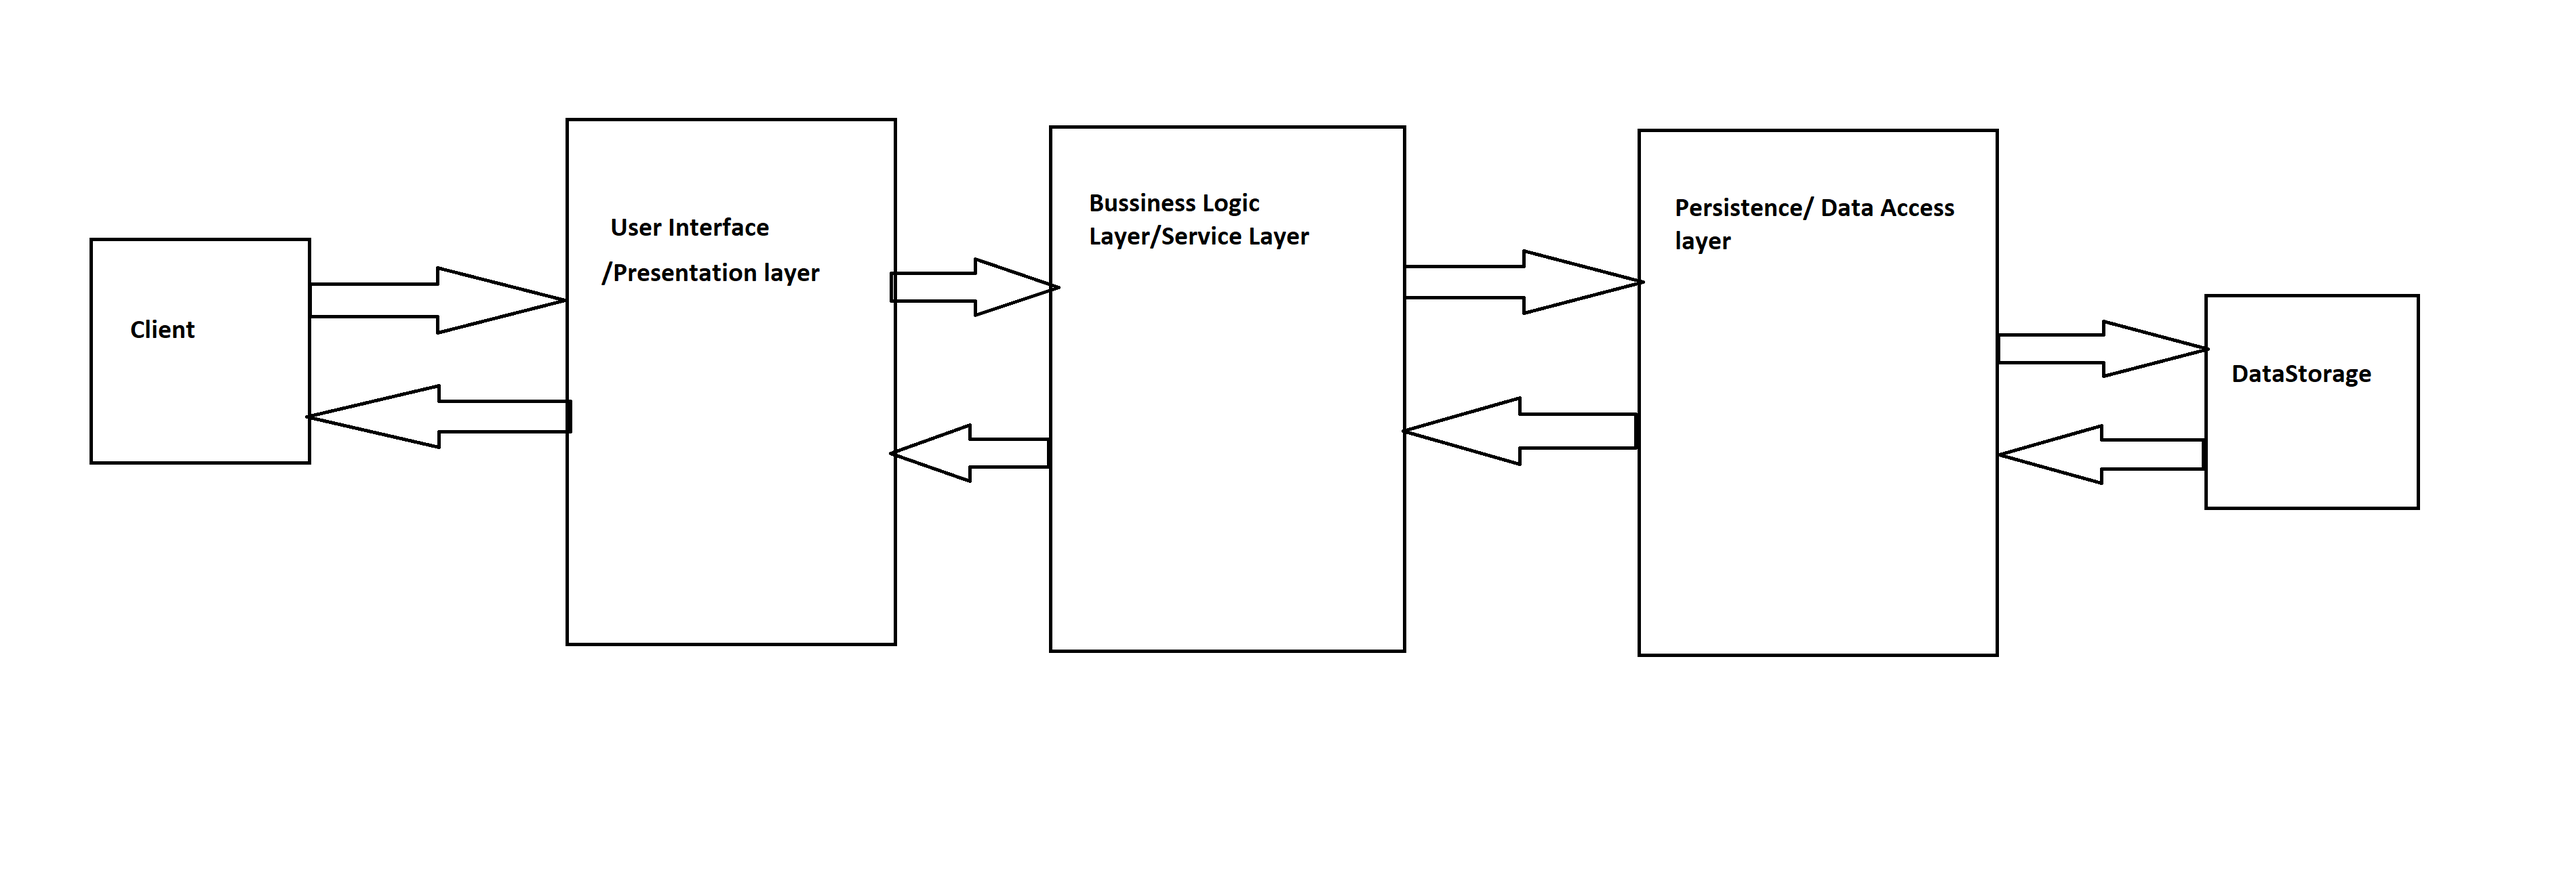
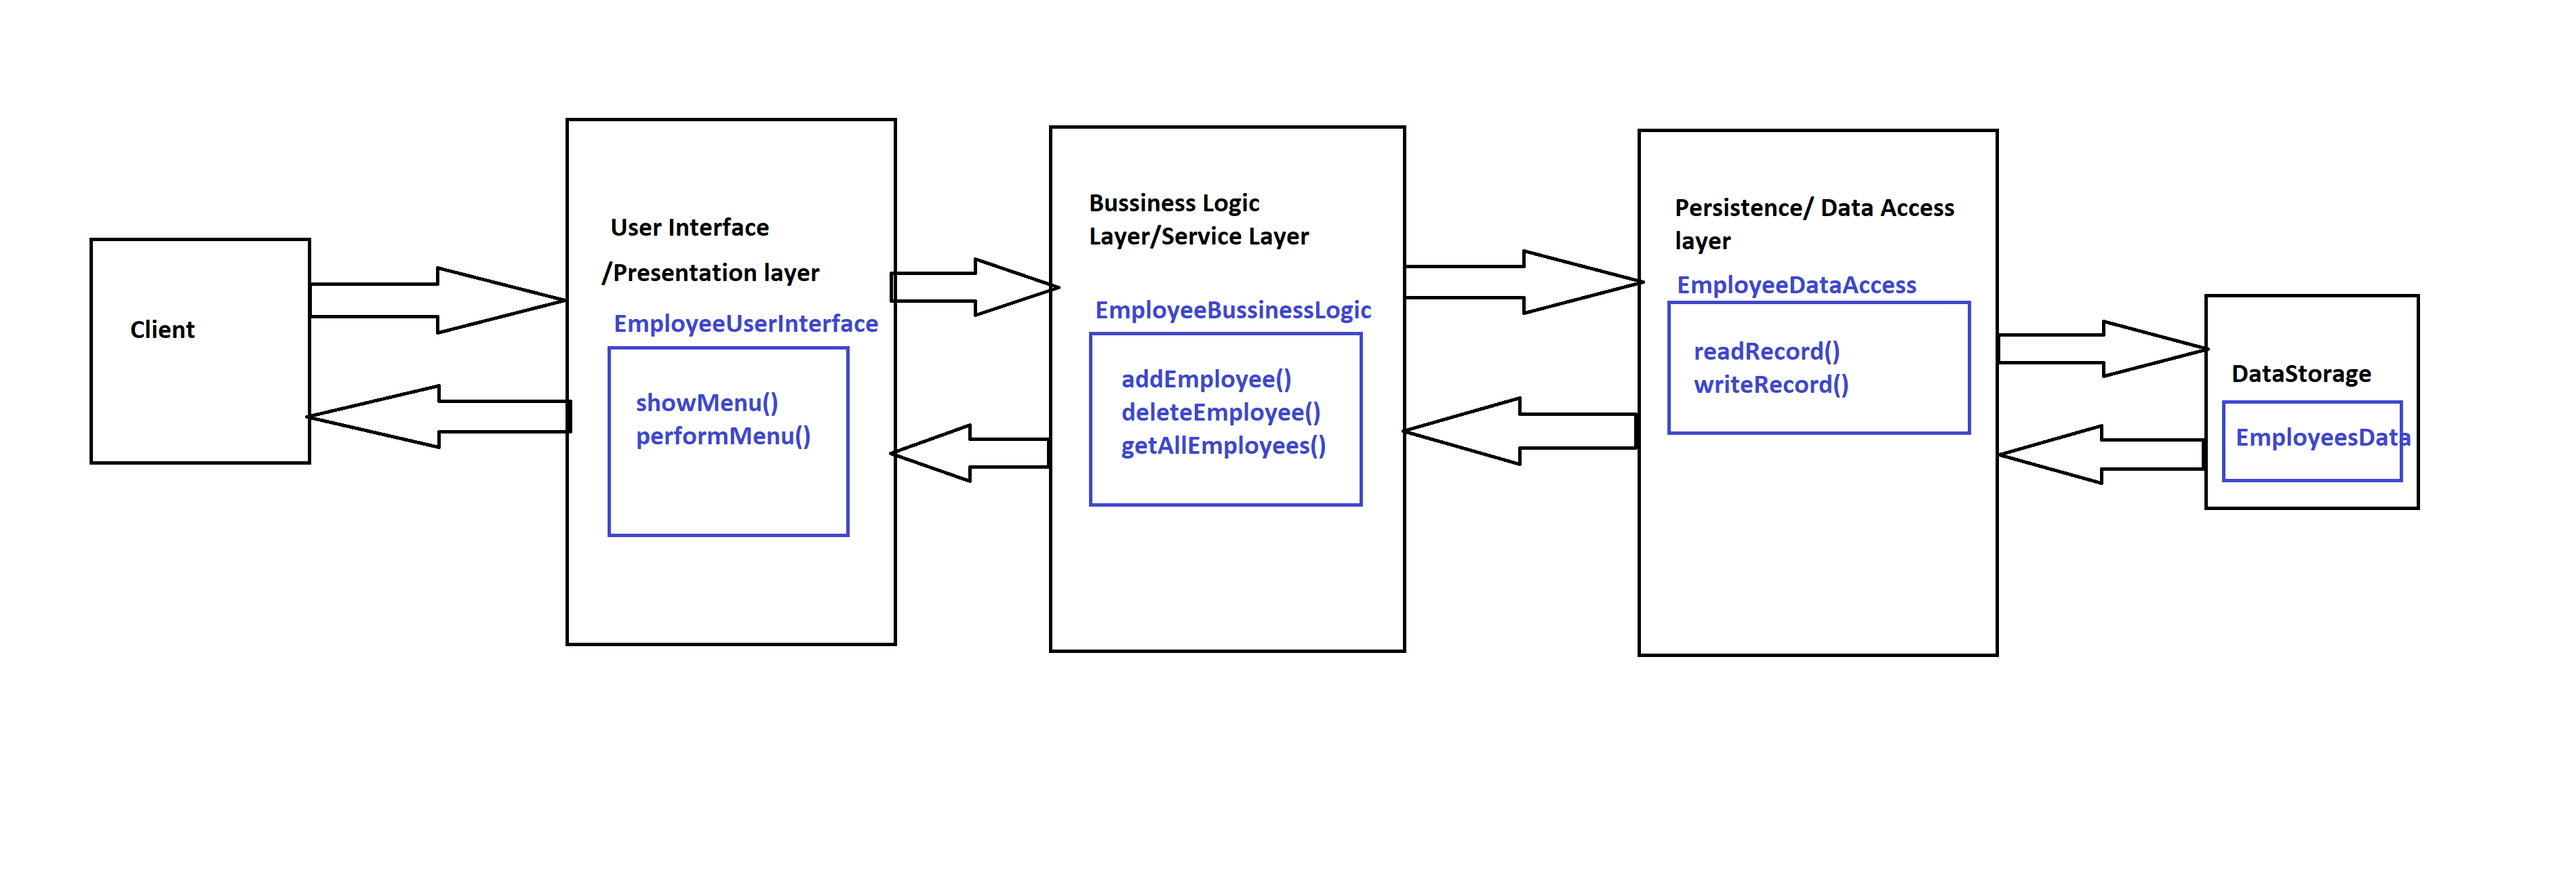
Add files via upload

diff --git a/Day13/EmployeeLayeredDemoProject/src/com/sujata/employee/presentation/EmployeeUserInterfaceImpl.java b/Day13/EmployeeLayeredDemoProject/src/com/sujata/employee/presentation/EmployeeUserInterfaceImpl.java
@@ -1,7 +1,16 @@
 package com.sujata.employee.presentation;
 
+import java.util.LinkedList;
+import java.util.Scanner;
+
+import com.sujata.employee.dto.Employee;
+import com.sujata.employee.service.EmployeeBussinessLogic;
+import com.sujata.employee.service.EmployeeBussinessLogicImpl;
+
 public class EmployeeUserInterfaceImpl implements EmployeeUserInterface {
 
+	private EmployeeBussinessLogic bussinessLogic=new EmployeeBussinessLogicImpl();
+	
 	@Override
 	public void showMenu() {
 		System.out.println("1. List All Employees");
@@ -13,17 +22,39 @@ public class EmployeeUserInterfaceImpl implements EmployeeUserInterface {
 
 	@Override
 	public void performMenu(int choice) {
+		Scanner scanner=new Scanner(System.in);
 		switch (choice) {
 		case 1: 
-			System.out.println("This module is under development");
+			LinkedList<Employee> employees=bussinessLogic.getAllEmployees();
+			for(Employee employee:employees) {
+				System.out.println(employee);
+			}
 			break;
 		case 2:
-			System.out.println("This Module is under development");
+			Employee employee=new Employee();
+			System.out.println("Enter Employee ID : ");
+			employee.setEmpId(scanner.nextInt());
+			System.out.println("Enter Employee Name : ");
+			employee.setEmpName(scanner.next());
+			System.out.println("Enter Employee Designation : ");
+			employee.setEmpDesignation(scanner.next());
+			System.out.println("Enter Employee Department : ");
+			employee.setEmpDepartment(scanner.next());
+			System.out.println("Enter Employee Salary : ");
+			employee.setEmpSalary(scanner.nextDouble());
+			
+			boolean status=bussinessLogic.addEmployee(employee);
+			
+			if(status)
+				System.out.println("Employee Added!");
+			else
+				System.out.println("Employee Not Added!");
 			break;
 		case 3:
 			System.out.println("This Module is under development");
 			break;
 		case 4:
+			bussinessLogic.saveAllEmployees();
 			System.out.println("Thanks for Using Employee Management System");
 			System.exit(0);
 			

diff --git a/Day13/EmployeeLayeredDemoProject/src/com/sujata/employee/persistence/EmployeeDataAccessImpl.java b/Day13/EmployeeLayeredDemoProject/src/com/sujata/employee/persistence/EmployeeDataAccessImpl.java
@@ -1,0 +1,63 @@
+package com.sujata.employee.persistence;
+
+import java.io.BufferedReader;
+import java.io.FileReader;
+import java.io.FileWriter;
+import java.io.PrintWriter;
+import java.util.ArrayList;
+import java.util.LinkedList;
+import java.util.Scanner;
+
+import com.sujata.employee.dto.Employee;
+
+public class EmployeeDataAccessImpl implements EmployeeDataAccess {
+
+	@Override
+	public boolean writeRecords(LinkedList<Employee> employees)throws Exception {
+		FileWriter fileWriter=new FileWriter("EmployeesData");
+		PrintWriter printWriter=new PrintWriter(fileWriter);
+		
+		for(Employee employee:employees) {
+			String empStr=employee.getEmpId()+","+employee.getEmpName()+","+employee.getEmpDesignation()+","+employee.getEmpDepartment()+","+employee.getEmpSalary();
+			
+			printWriter.println(empStr);
+		}
+		
+		printWriter.flush();
+		
+		printWriter.close();
+
+		fileWriter.close();
+		return true;
+	}
+
+	@Override
+	public LinkedList<Employee> readRecords()throws Exception {
+		LinkedList<Employee> employees=new LinkedList<Employee>();
+		
+		FileReader fileReader = new FileReader("EmployeesData");
+
+		// read the content from buffer
+		BufferedReader bufferedReader = new BufferedReader(fileReader);
+
+		Scanner scanner = new Scanner(bufferedReader);
+		while (scanner.hasNext()) {
+			String currentLine = scanner.nextLine();
+			/*
+			 * currentLine=1,AAAA,Executive,Sales,25000.0
+			 * values[]={"1","AAAA","Executive","Sales","25000.0"}
+			 * 
+			 */
+			String values[]=currentLine.split(",");
+			
+			Employee employee=new Employee(Integer.parseInt(values[0]), values[1], values[2], values[3],Double.parseDouble(values[4]));
+			
+			employees.add(employee);
+		}
+		fileReader.close();
+		bufferedReader.close();
+		
+		return employees;
+	}
+
+}

diff --git a/Day13/EmployeeLayeredDemoProject/src/com/sujata/employee/service/EmployeeBussinessLogicImpl.java b/Day13/EmployeeLayeredDemoProject/src/com/sujata/employee/service/EmployeeBussinessLogicImpl.java
@@ -1,0 +1,52 @@
+package com.sujata.employee.service;
+
+import java.util.LinkedList;
+
+import com.sujata.employee.dto.Employee;
+import com.sujata.employee.persistence.EmployeeDataAccess;
+import com.sujata.employee.persistence.EmployeeDataAccessImpl;
+
+public class EmployeeBussinessLogicImpl implements EmployeeBussinessLogic {
+
+	
+	private EmployeeDataAccess dataAccess=new EmployeeDataAccessImpl();
+	
+	private LinkedList<Employee> employeeList;
+	
+	public EmployeeBussinessLogicImpl() {
+		try {
+			employeeList=dataAccess.readRecords();
+			
+		} catch (Exception e) {
+			e.printStackTrace();
+		}
+	}
+	@Override
+	public LinkedList<Employee> getAllEmployees() {
+		
+		return employeeList;
+	}
+
+	@Override
+	public boolean addEmployee(Employee employee) {
+		
+		return employeeList.add(employee);
+	}
+
+	@Override
+	public boolean deleteEmployee(int id) {
+		// TODO Auto-generated method stub
+		return false;
+	}
+	
+	public void saveAllEmployees() {
+		try {
+			dataAccess.writeRecords(employeeList);
+		} catch (Exception e) {
+			// TODO Auto-generated catch block
+			e.printStackTrace();
+		}
+	}
+	
+
+}

diff --git a/Day13/EmployeeLayeredDemoProject/src/com/sujata/employee/service/EmployeeBussinessLogic.java b/Day13/EmployeeLayeredDemoProject/src/com/sujata/employee/service/EmployeeBussinessLogic.java
@@ -1,0 +1,13 @@
+package com.sujata.employee.service;
+
+import java.util.LinkedList;
+
+import com.sujata.employee.dto.Employee;
+
+public interface EmployeeBussinessLogic {
+
+	LinkedList<Employee> getAllEmployees();
+	boolean addEmployee(Employee employee);
+	boolean deleteEmployee(int id);
+	public void saveAllEmployees();
+}

diff --git a/Day13/EmployeeLayeredDemoProject/src/com/sujata/employee/persistence/EmployeeDataAccess.java b/Day13/EmployeeLayeredDemoProject/src/com/sujata/employee/persistence/EmployeeDataAccess.java
@@ -1,0 +1,11 @@
+package com.sujata.employee.persistence;
+
+import java.util.LinkedList;
+
+import com.sujata.employee.dto.Employee;
+
+public interface EmployeeDataAccess {
+
+	public boolean writeRecords(LinkedList<Employee> employees)throws Exception;
+	public LinkedList<Employee> readRecords()throws Exception;
+}
